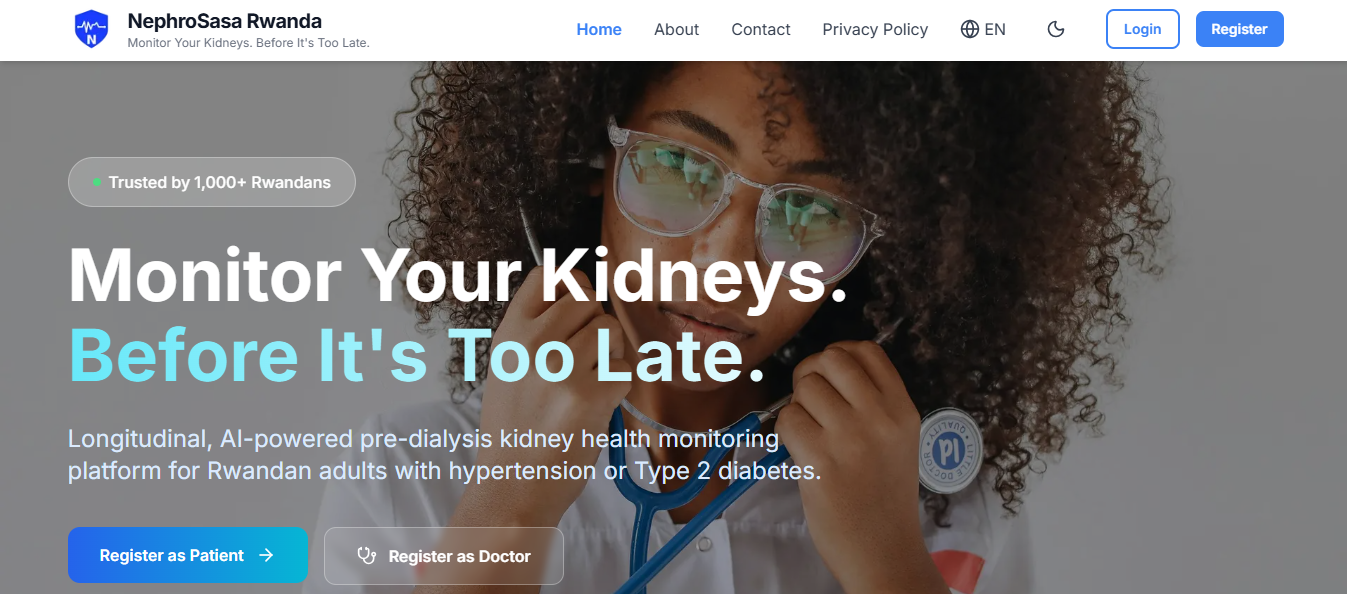
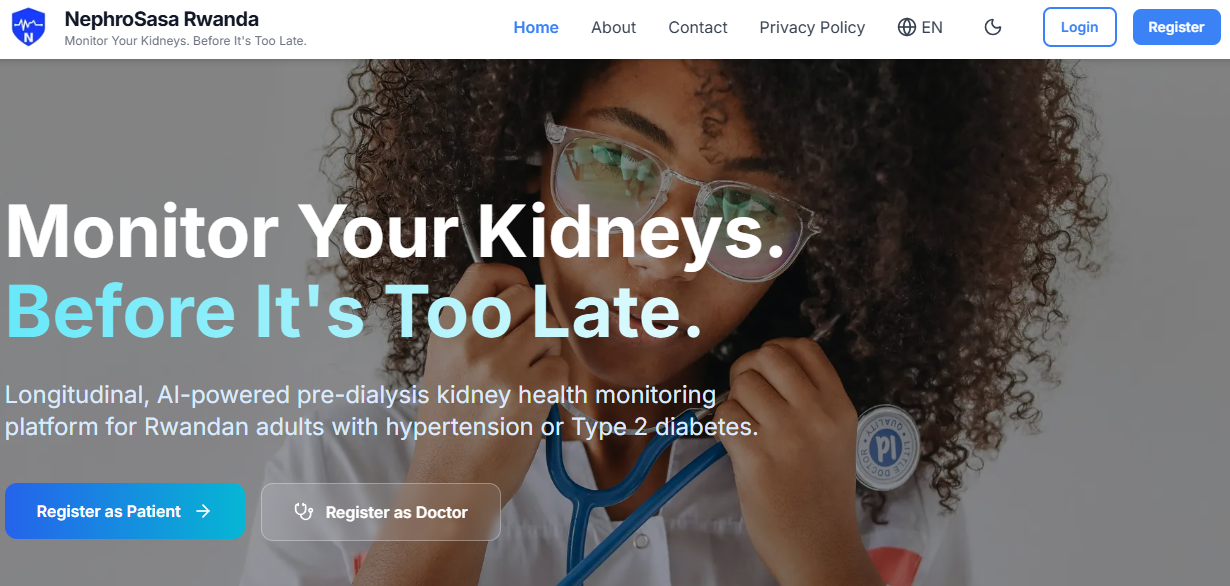
Update project images and correct paths

diff --git a/app/projects/swiftbill/page.tsx b/app/projects/swiftbill/page.tsx
@@ -14,8 +14,8 @@ const desktopImages = [
 ];
 
 const mobileImages = [
-  { src: "/images/projects/swiftbill-mobile_landing_page.jpeg", label: "Mobile Landing Page" },
-  { src: "/images/projects/swiftbill-mobile_dashboard.jpeg", label: "Mobile Dashboard" },
+  { src: "/images/projects/swiftbill-mobile-hero.jpeg", label: "Mobile Landing Page" },
+  { src: "/images/projects/swiftbill-mobile-dashboard.jpeg", label: "Mobile Dashboard" },
   { src: "/images/projects/swiftbill-mobile_invoice_builder.jpeg", label: "Mobile Invoice Builder" },
 ];
 
